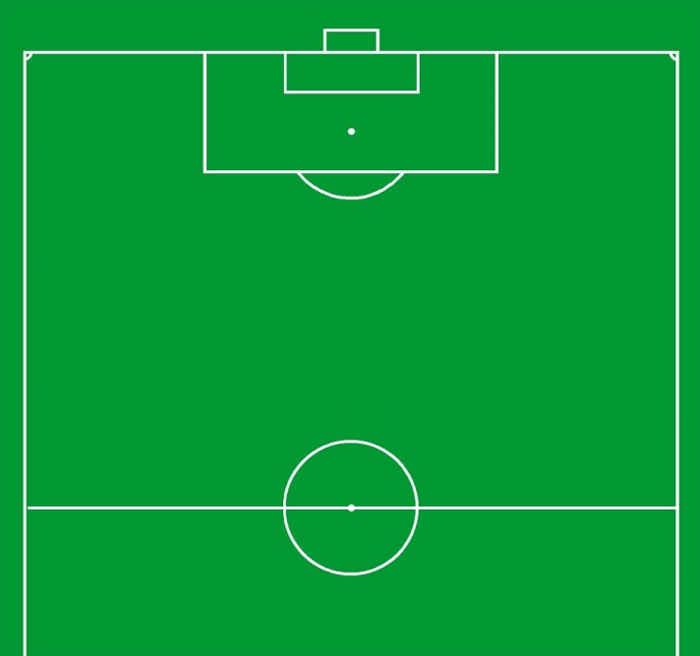
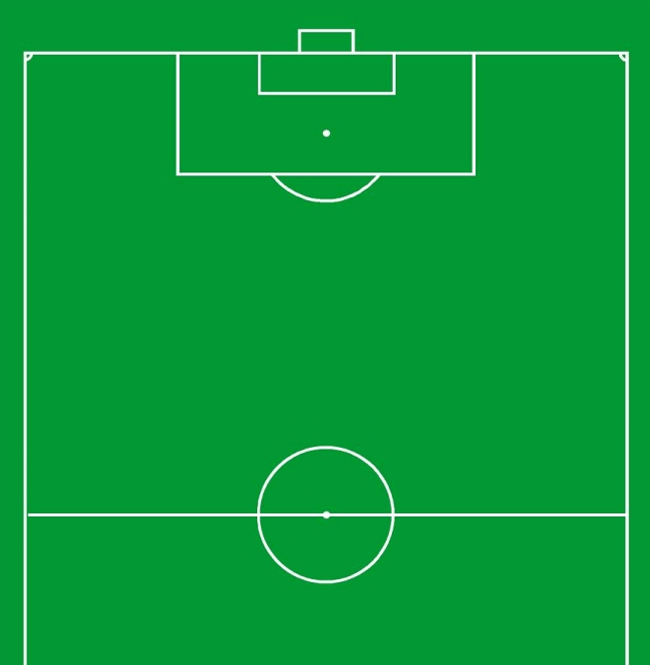
Justert spillerdraktene og banebildet

diff --git a/tippeligaen.cpp b/tippeligaen.cpp
@@ -158,8 +158,16 @@ void Tippeligaen::createTeamPlayersGroupBox(){
 
 QGroupBox* Tippeligaen::createTeamOfTheRoundGroupBox(){
     QGroupBox *box = new QGroupBox(tr("Rundens lag"));
-
     field = new Field();
+
+    QLabel *fieldImage = new QLabel();
+    fieldImage->setPixmap(QPixmap(":/bilder/field.png"));
+    box->setStyleSheet("QGroupBox { "
+                            "background-image: url(:/bilder/field.png);"
+                            "background-repeat: none;"
+                            "border: 20px solid;"
+                            "border-color: none; "
+                        "}");
 
     //fieldLabel = new QLabel(field);
     //fieldLabel->setPixmap(QPixmap(":/bilder/fullbaneTest.png"));
@@ -188,17 +196,17 @@ QGroupBox* Tippeligaen::createTeamOfTheRoundGroupBox(){
     QGridLayout *layout = new QGridLayout;
     //QBoxLayout *layout = new QBoxLayout;
     //layout->addWidget(field);//, 0,0);
-    layout->addWidget(k, 0, 2, 1, 2);
+    layout->addWidget(k, 0, 2, 1, 4);
     layout->addWidget(lb, 1, 0);
-    layout->addWidget(lcb, 1, 1);
-    layout->addWidget(rcb, 1, 2);
-    layout->addWidget(rb, 1, 3);
+    layout->addWidget(rb, 1, 1);
+    layout->addWidget(lcb, 1, 3);
+    layout->addWidget(rcb, 1, 4);
     layout->addWidget(lw, 2, 0);
-    layout->addWidget(lcm, 2, 1);
-    layout->addWidget(rcm, 2, 2);
-    layout->addWidget(rw, 2, 3);
+    layout->addWidget(rw, 2, 1);
+    layout->addWidget(lcm, 2, 3);
+    layout->addWidget(rcm, 2, 4);
     layout->addWidget(ls, 3, 1);
-    layout->addWidget(rs, 3, 2);
+    layout->addWidget(rs, 3, 3);
     layout->addWidget(teamOfTheRoundIdLabel, 4, 0);
     box->setLayout(layout);
     box->setAcceptDrops(true);
